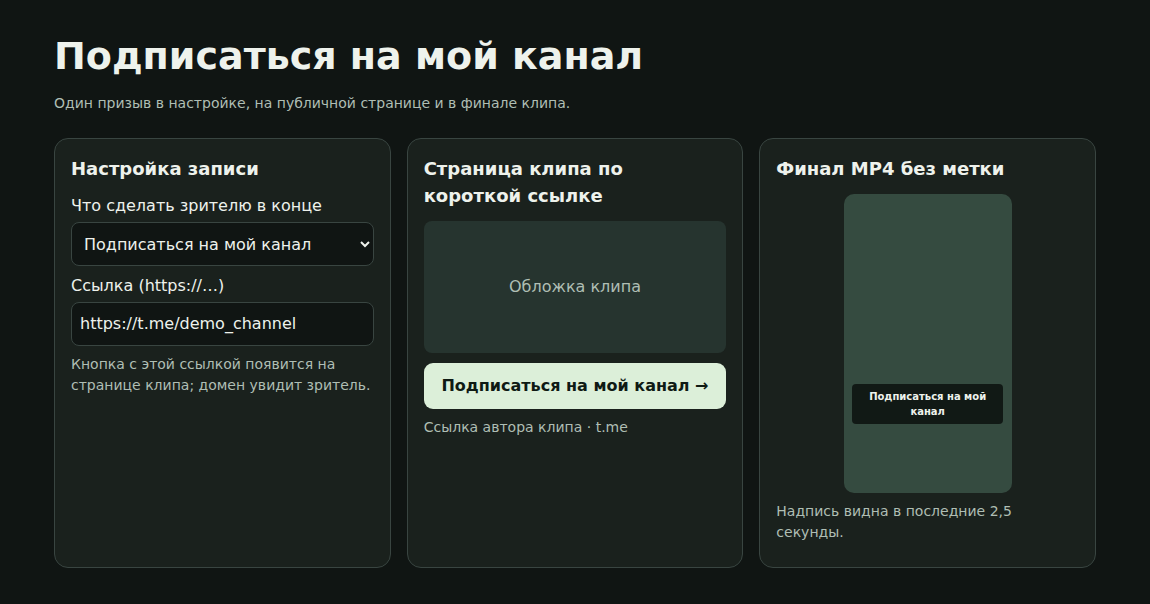
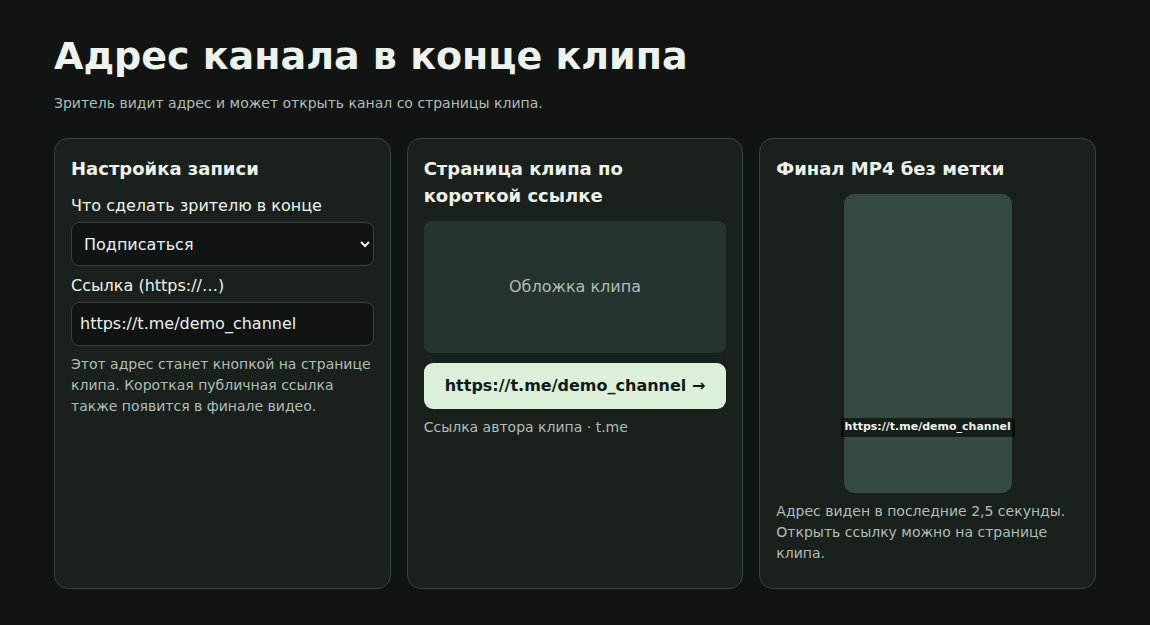
Показать в макете адрес канала вместо общей надписи

diff --git a/features/subscribe-cta-label/mockup.html b/features/subscribe-cta-label/mockup.html
@@ -3,7 +3,7 @@
 <head>
 <meta charset="utf-8">
 <meta name="viewport" content="width=device-width,initial-scale=1">
-<title>Clipmkr · Призыв подписаться</title>
+<title>Clipmkr · Адрес канала в конце клипа</title>
 <style>
 :root{color-scheme:dark;--bg:#101513;--panel:#1a211d;--line:#394541;--ink:#eef2ec;--muted:#afbeb4;--button:#dcefd9;--button-text:#0f1a14}
 *{box-sizing:border-box}body{margin:0;background:var(--bg);color:var(--ink);font:16px/1.5 system-ui,sans-serif}
@@ -17,21 +17,21 @@ small,.muted{display:block;color:var(--muted);font-size:14px;margin:8px 0}
 .cta{display:block;text-align:center;background:var(--button);color:var(--button-text);border-radius:9px;padding:11px 8px;text-decoration:none;font-weight:650}
 .poster{display:grid;place-items:center;aspect-ratio:16/7;margin-bottom:10px;border-radius:8px;background:#26342f;color:var(--muted)}
 .frame{aspect-ratio:9/16;width:168px;max-width:100%;margin:auto;position:relative;border-radius:10px;background:#354b40}
-.caption{position:absolute;bottom:23%;left:5%;right:5%;padding:5px 2px;background:#000a;border-radius:4px;text-align:center;font-size:10px;font-weight:750}
+.caption{position:absolute;bottom:18.7%;left:50%;transform:translateX(-50%);padding:3px 4px;background:#0009;text-align:center;white-space:nowrap;font:750 11px/1.15 system-ui,sans-serif}
 @media(max-width:760px){.grid{grid-template-columns:1fr}}
 </style>
 </head>
 <body><main>
-<header><h1>Подписаться на мой канал</h1><p class="muted">Один призыв в настройке, на публичной странице и в финале клипа.</p></header>
+<header><h1>Адрес канала в конце клипа</h1><p class="muted">Зритель видит адрес и может открыть канал со страницы клипа.</p></header>
 <div class="grid">
 <section><h2>Настройка записи</h2>
-<label for="kind">Что сделать зрителю в конце</label><select id="kind"><option>Подписаться на мой канал</option></select>
+<label for="kind">Что сделать зрителю в конце</label><select id="kind"><option>Подписаться</option></select>
 <label for="url">Ссылка (https://…)</label><input id="url" type="url" value="https://t.me/demo_channel" readonly>
-<small>Кнопка с этой ссылкой появится на странице клипа; домен увидит зритель.</small></section>
+<small>Этот адрес станет кнопкой на странице клипа. Короткая публичная ссылка также появится в финале видео.</small></section>
 <section><h2>Страница клипа по короткой ссылке</h2><div class="poster">Обложка клипа</div>
-<a href="https://t.me/demo_channel" class="cta" rel="noopener noreferrer nofollow" target="_blank">Подписаться на мой канал →</a>
+<a href="https://t.me/demo_channel" class="cta" rel="noopener noreferrer nofollow" target="_blank">https://t.me/demo_channel →</a>
 <p class="muted">Ссылка автора клипа · t.me</p></section>
-<section><h2>Финал MP4 без метки</h2><div class="frame"><span class="caption">Подписаться на мой канал</span></div>
-<p class="muted">Надпись видна в последние 2,5 секунды.</p></section>
+<section><h2>Финал MP4 без метки</h2><div class="frame"><span class="caption">https://t.me/demo_channel</span></div>
+<p class="muted">Адрес виден в последние 2,5 секунды. Открыть ссылку можно на странице клипа.</p></section>
 </div>
 </main></body></html>
